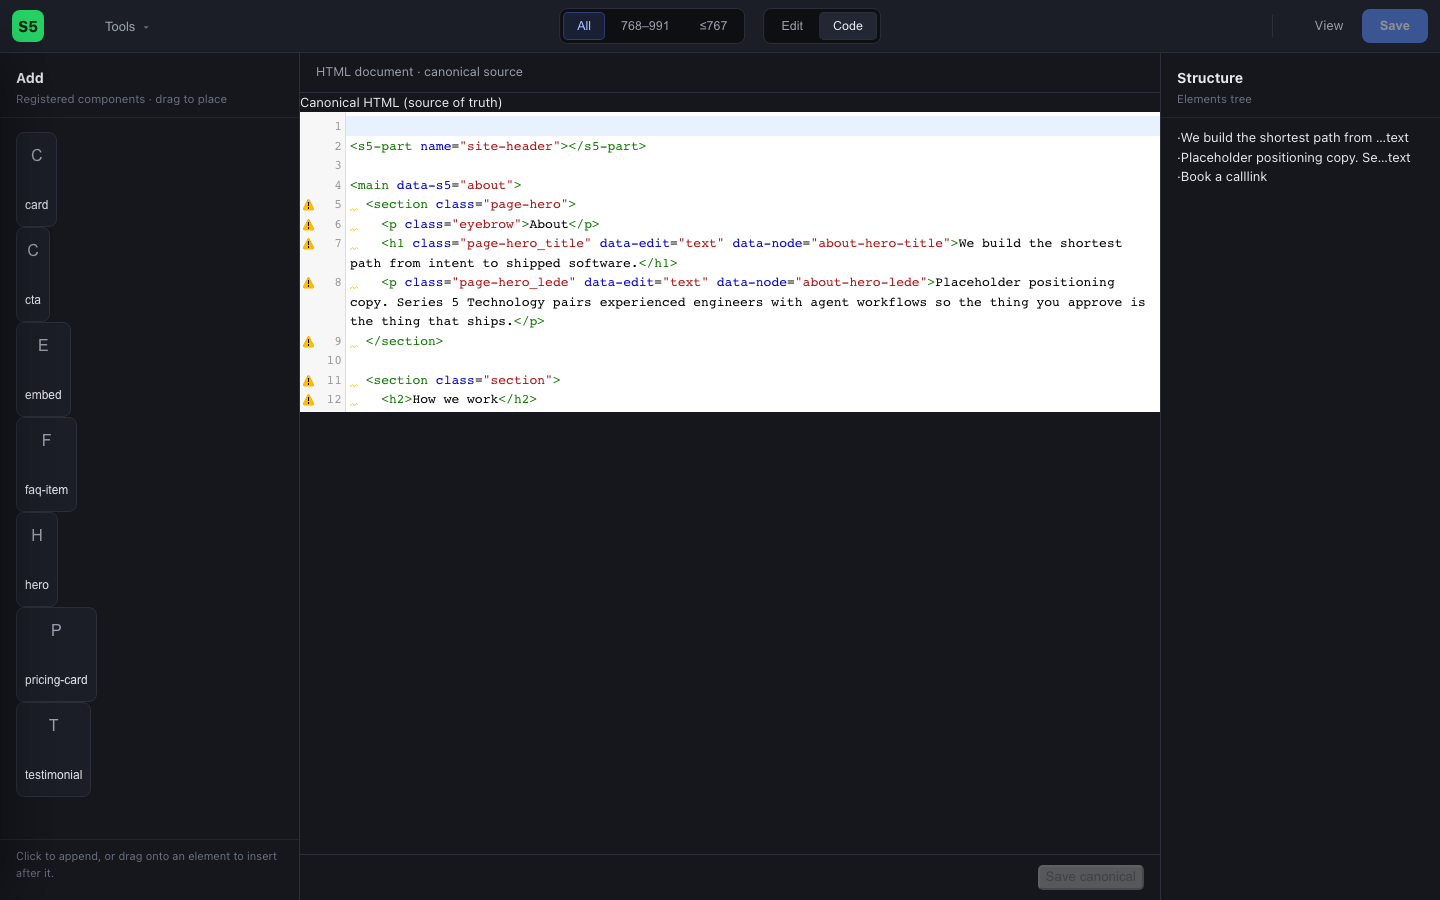
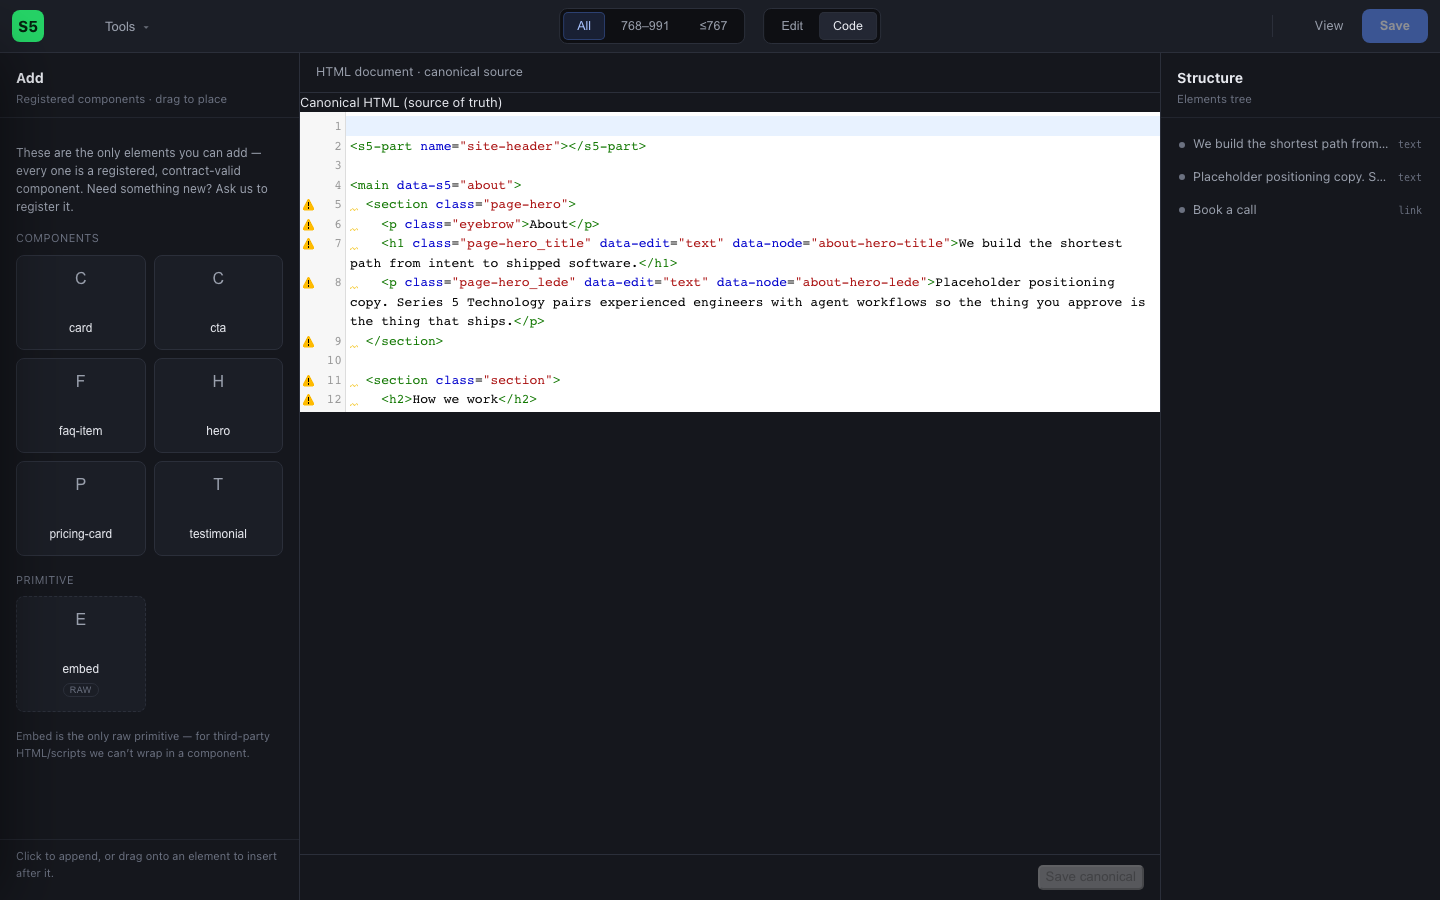
Phase B (JS chunk 4b): relocate head/SEO fields into the Page Settings drawer
Head fields (SEO title / meta description / canonical) move from the hidden legacy-hooks
block into the drawer's "Page Meta & SEO" section — the mockup's home for them (§2.7).
They carry the same data-s5-head / data-s5-head-save hooks codelens.js already seeds and
saves through the one door (mode:head → _s5_head). Removed the duplicate head form from
legacy-hooks so there is exactly one head-save button and one set of head inputs.

HEAD-RELOCATION GATE (spec 2 — head contract re-run explicitly): editor + step3 (round-trip
HEAD deltas: title once+matching, description once, canonical, OG, JSON-LD verbatim) +
step9 (S5 owns document SEO + schema) ALL GREEN. Browser: title/desc seed correctly,
1 save button, 3 head inputs, 0 errors. Code lens (CodeMirror) verified mounting +
loading canonical (DEMO §3).

diff --git a/s5-theme/templates/editor-drawers.php b/s5-theme/templates/editor-drawers.php
@@ -37,7 +37,25 @@ $s5_is_template = isset( $s5_is_template ) ? (bool) $s5_is_template : false;
 		</section>
 		<section class="s5-editor__drawer-sec">
 			<div class="s5-editor__drawer-sec-head"><?php esc_html_e( 'Page Meta & SEO', 's5' ); ?></div>
-			<p class="s5-editor__hint"><?php esc_html_e( 'SEO title, meta description, canonical, index/follow, OG image. Writes through to Yoast/RankMath when present.', 's5' ); ?></p>
+			<?php /* Head fields — seeded + saved by codelens.js through the ONE door (mode:head → _s5_head). The head round-trip contract lives here now. */ ?>
+			<div class="s5-editor__headform" data-s5-headform>
+				<div class="s5-editor__field">
+					<label class="s5-editor__field-label" for="s5-head-title"><?php esc_html_e( 'SEO Title', 's5' ); ?></label>
+					<input id="s5-head-title" class="s5-editor__input" type="text" data-s5-head="title">
+				</div>
+				<div class="s5-editor__field">
+					<label class="s5-editor__field-label" for="s5-head-desc"><?php esc_html_e( 'Meta Description', 's5' ); ?></label>
+					<textarea id="s5-head-desc" class="s5-editor__textarea" rows="3" data-s5-head="description"></textarea>
+				</div>
+				<div class="s5-editor__field">
+					<label class="s5-editor__field-label" for="s5-head-canonical"><?php esc_html_e( 'Canonical URL', 's5' ); ?></label>
+					<input id="s5-head-canonical" class="s5-editor__input" type="url" data-s5-head="canonical">
+				</div>
+				<button type="button" class="button button-primary s5-editor__head-save" data-s5-head-save disabled>
+					<?php esc_html_e( 'Save meta', 's5' ); ?>
+				</button>
+				<p class="s5-editor__field-hint"><?php esc_html_e( 'Index/follow, OG image, and Yoast/RankMath write-through land in Phase C.', 's5' ); ?></p>
+			</div>
 		</section>
 		<section class="s5-editor__drawer-sec">
 			<div class="s5-editor__drawer-sec-head"><?php esc_html_e( 'Schema (JSON-LD)', 's5' ); ?></div>

diff --git a/s5-theme/templates/editor.php b/s5-theme/templates/editor.php
@@ -243,13 +243,10 @@ $s5_settings_css_url        = admin_url( 'admin.php?page=s5-settings&screen=css'
 	 * do not error. They carry the same data-s5-* attributes their handlers expect.
 	 */
 	?>
+	<?php /* Head fields now live in the Page Settings drawer (editor-drawers.php). The
+	   Components tab machinery is parked here until it moves to the settings Components
+	   screen in Phase C — keeps componentstab.js from erroring in the meantime. */ ?>
 	<div class="s5-editor__legacy-hooks" data-s5-legacy hidden aria-hidden="true">
-		<div data-s5-headform>
-			<input type="text" data-s5-head="title">
-			<textarea data-s5-head="description"></textarea>
-			<input type="url" data-s5-head="canonical">
-			<button type="button" data-s5-head-save disabled></button>
-		</div>
 		<div data-s5-comp-grid></div>
 		<div data-s5-comp-editor hidden>
 			<button type="button" data-s5-comp-back></button>
